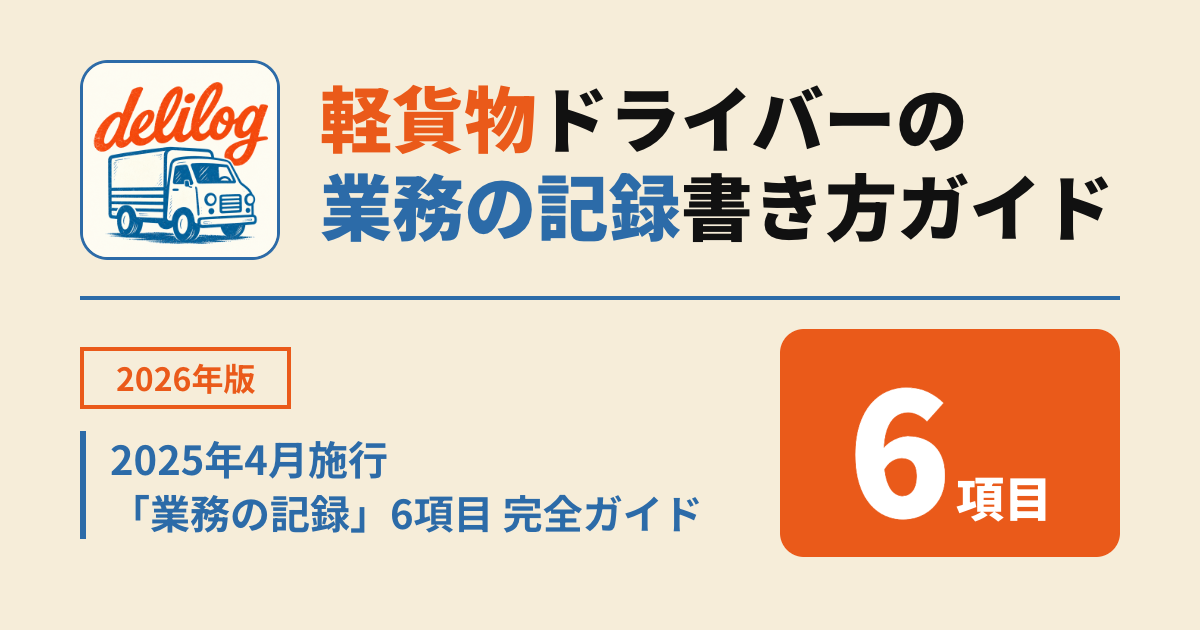
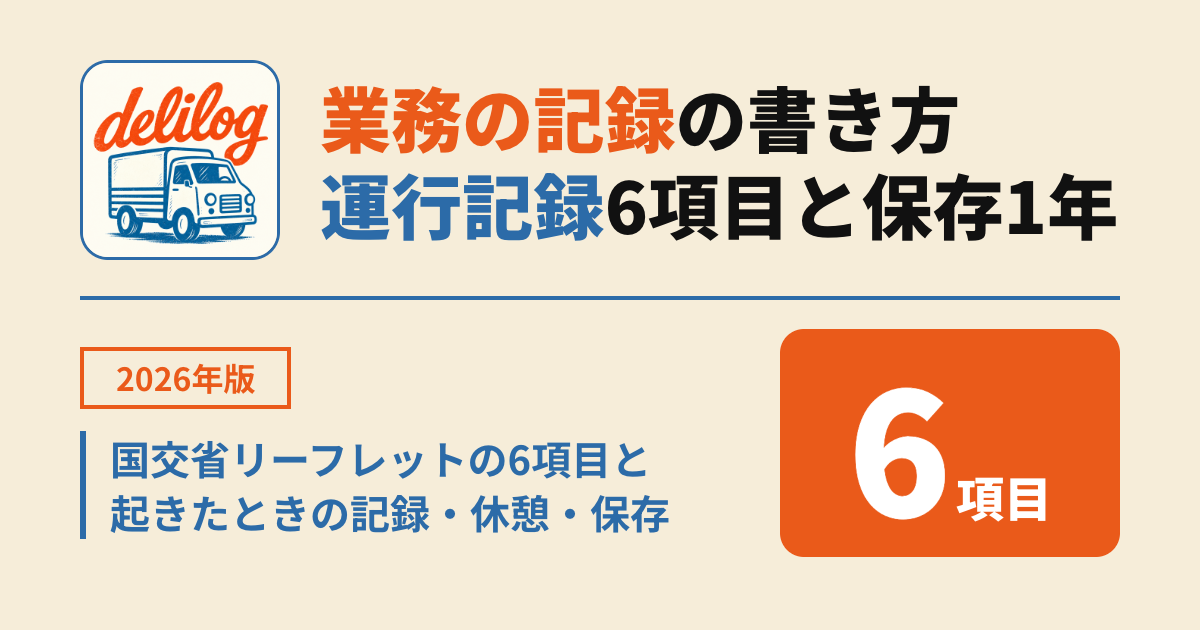
feat(blog): T4 gyoumu-no-kiroku-kakikata 図と OG

Changed region(s): [[0.2467, 0.2714, 0.925, 0.3921], [0.2467, 0.1206, 0.8017, 0.2413], [0.0925, 0.6937, 0.5858, 0.8444]]

diff --git a/content/figures/gyoumu-no-kiroku-kakikata/structure.html b/content/figures/gyoumu-no-kiroku-kakikata/structure.html
@@ -1,0 +1,12 @@
+<h1 class="fig-title">業務の記録の<br><em>6項目</em>は、氏名から<br>主な経過地点まで</h1>
+<div class="fig-body">
+  <div class="fig-row">
+    <div class="fig-card is-accent" data-item>運転者等の氏名</div>
+    <div class="fig-card is-accent" data-item>車両番号</div>
+  </div>
+  <div class="fig-card is-accent" data-item>開始・終了・休憩の日時</div>
+  <div class="fig-card is-accent" data-item>開始・終了・休憩の地点</div>
+  <div class="fig-card is-accent" data-item>業務に従事した距離</div>
+  <div class="fig-card is-accent" data-item>主な経過地点</div>
+</div>
+<div class="fig-footer"><span>delilog.app</span><img src="/app_icon.png" alt=""></div>

diff --git a/content/figures/gyoumu-no-kiroku-kakikata/flow.html b/content/figures/gyoumu-no-kiroku-kakikata/flow.html
@@ -1,0 +1,10 @@
+<h1 class="fig-title">1回の業務で<em>残す順</em></h1>
+<div class="fig-body">
+  <div class="fig-card is-accent" data-item>開始｜日時と地点</div>
+  <div class="fig-card" data-item>経過地点｜主な地点</div>
+  <div class="fig-card" data-item>休憩｜開始と終了の日時</div>
+  <div class="fig-card is-accent" data-item>終了｜日時と地点</div>
+  <div class="fig-card" data-item>業務に従事した距離</div>
+  <div class="fig-card is-strong" data-item>起きたときは追記</div>
+</div>
+<div class="fig-footer"><span>delilog.app</span><img src="/app_icon.png" alt=""></div>

diff --git a/docs/plans/blog-gyoumu-no-kiroku-kakikata.md b/docs/plans/blog-gyoumu-no-kiroku-kakikata.md
@@ -21,7 +21,7 @@ WORKTREE: /Users/narajunichi/delilog-website/.claude/worktrees/blog-gyoumu-no-ki
 - [x] T1: ファクトチェック — 03-fact-check.md。裏が取れない主張は「削除」「書き換え」と判定
 - [x] T2: プロダクト整合性 — 04-consistency.md
 - [x] T3: 執筆 — content/blog/gyoumu-no-kiroku-kakikata.md（短い ID gyomu-guide は登録済み）。blog:stats が OK（図以外）
-- [ ] T4: 図と OG — content/figures/gyoumu-no-kiroku-kakikata/。blog:figures が OK
+- [x] T4: 図と OG — content/figures/gyoumu-no-kiroku-kakikata/。blog:figures が OK
 - [ ] T5: 最終レビュー — 06-review.md。5つの検証コマンドがすべて OK、スマホのスクショを目で確認
 - [ ] T6: 公開準備 — 作り直しなので相互リンクは足さない。BLOG_SCHEDULE・BLOG_BACKLOG は触らない。push、PR（publish:2026-11-22）、プレビュー URL
 
@@ -32,6 +32,7 @@ WORKTREE: /Users/narajunichi/delilog-website/.claude/worktrees/blog-gyoumu-no-ki
 | T1 | (このコミット) | 採用8・書き換え5・削除7。M073〜M075 追加、M015・M016 に更新メモ |
 | T2 | (このコミット) | 重大7件を構成書に反映（6項目の数え方・ctaTitle・カード文言ほか） |
 | T3 | (このコミット) | 本文 4,223字・6章・FAQ 4問 |
+| T4 | (このコミット) | 図2枚（縦長）＋OG。blog:figures OK。旧画像 chiten.png・timeline.png を削除 |
 
 ## 失敗カウンタ
 
